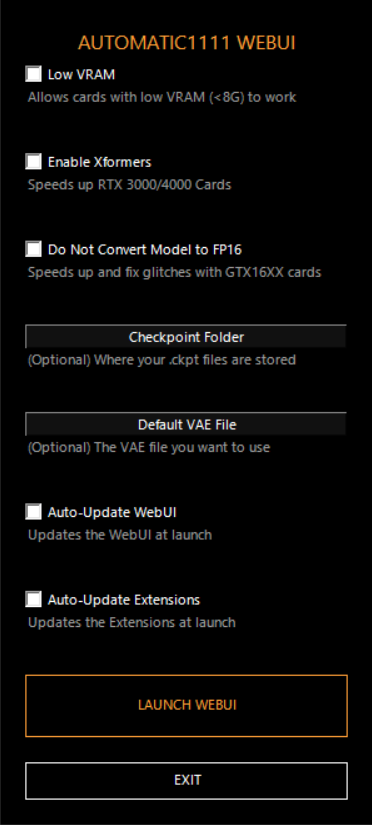
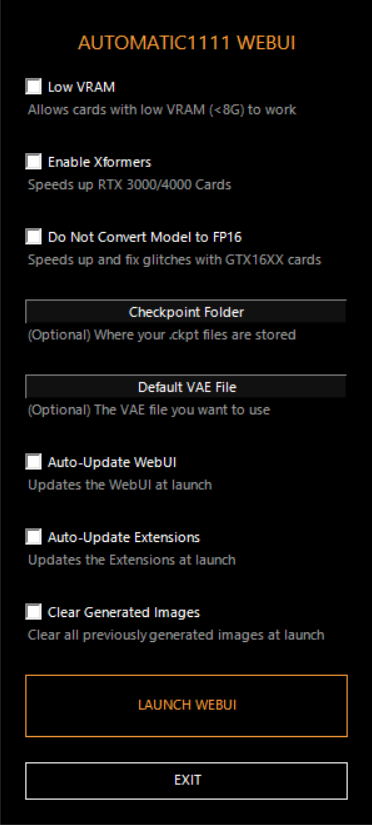
Adding Clear Generated Images and more
Updated Readme & Images
Packed Launcher functions more closely

Changed region(s): [[0.0591, 0.2727, 0.8871, 0.7879], [0.0591, 0.0606, 0.7984, 0.1515]]

diff --git a/README.md b/README.md
@@ -20,14 +20,18 @@ If you want to contribute to the code, this project mainly uses [**Advanced Inst
    1. If you already have Python 3.10 and Git Installed, you might be able to uncheck them
    2. If you're in doubt or have no idea what those are, keep them checked, they're essential
    3. Click next and wait for downloading/installation, be patient, the installation is made in the background
-6. If everythin goes right you'll be greated with this screen : ![Installer](Media\Installer.png)
-7. Select where you want the UI to be stored - _default is fine but if you want to install things somewhere else, it is highly recommended to do it in a dedicated empty folder, else it's going to be pretty messy_
-8. Select **Install SD Checkpoint** if you don't have already have a Checkpoints/Models folder (if you do, you'll be able to select it via the launcher later), **if you have no idea what this means, leave the box checked**
-9. Read the Important details, then check I Understand
-10. Click Install and remember, this can take a while
-11. Once installed, a folder will open with a shortcut called **A1111 WebUI (Pin to Taskbar)**
-12. You can drag & drop it on your taskbar if you wish, this is the launcher for the WebUI
-13. Launch the shortcut to begin
+6. If everythin goes right you'll be greated with this screen :
+7. ![Installer](Media\Installer.png)
+8. Select where you want the UI to be stored - _default is fine but if you want to install things somewhere else, it is highly recommended to do it in a dedicated empty folder, else it's going to be pretty messy_
+9. Select **Install SD Checkpoint** if you don't have already have a Checkpoints/Models folder (if you do, you'll be able to select it via the launcher later), **if you have no idea what this means, leave the box checked**
+10. Read the Important details, then check I Understand
+11. Click Install and remember, this can take a while
+12. Once installed, a folder will open with a shortcut called **A1111 WebUI (Pin to Taskbar)**
+13. You can drag & drop it on your taskbar if you wish, this is the launcher for the WebUI
+14. Launch the shortcut to open the Custom Launcher
+15. See bellow for the different features of the launcher
+16. Once you've selected what you wanted, click **LAUNCH WEBUI**, it will launch a CMD window, logging what it's doing **be patient this will take a while at first**, when it's ready, it will open the webUI in your browser
+17. When you're done using the WebUI, close the browser tab & close the CMD window
 
 # THE LAUNCHER
 
@@ -44,3 +48,4 @@ When double clicking **A1111 WebUI (Pin to Taskbar)** You should be greeted with
 - **Default VAE** : This will allow you to select a default separate for all models VAE file
 - **Auto-Update WebUI** : This will update (git pull) the WebUI everytime you launch it
 - **Auto-Update Extensions** : Same thing but with the extensions
+- **Clear Generated Images** : This will clear all previously generated images from the outputs folder of the stable diffusion webui at launch, to give you a tidy blank slate for this session. ⚠ **The images are permanently deleted ! A pop up will ask you for confirmation at launch if enabled, and you'll also be able to skip the deletion without disabling it.**
